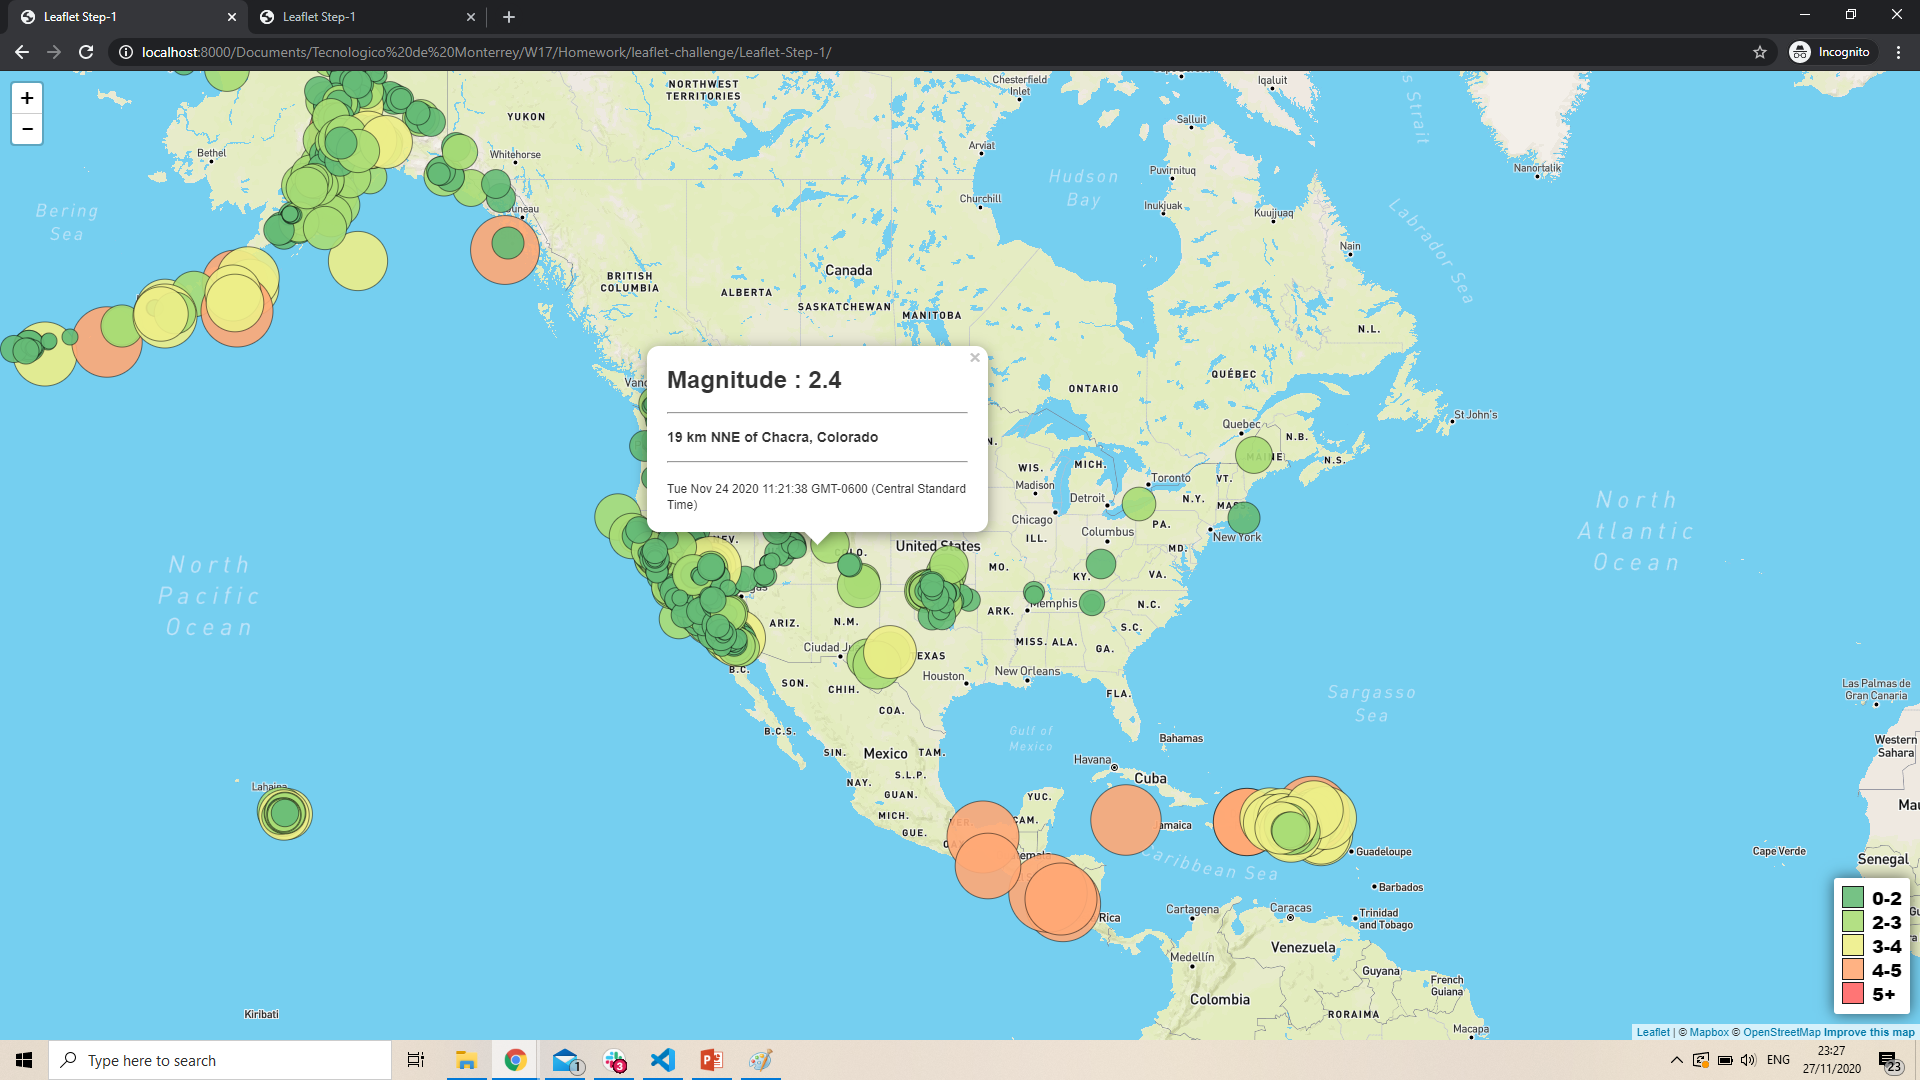
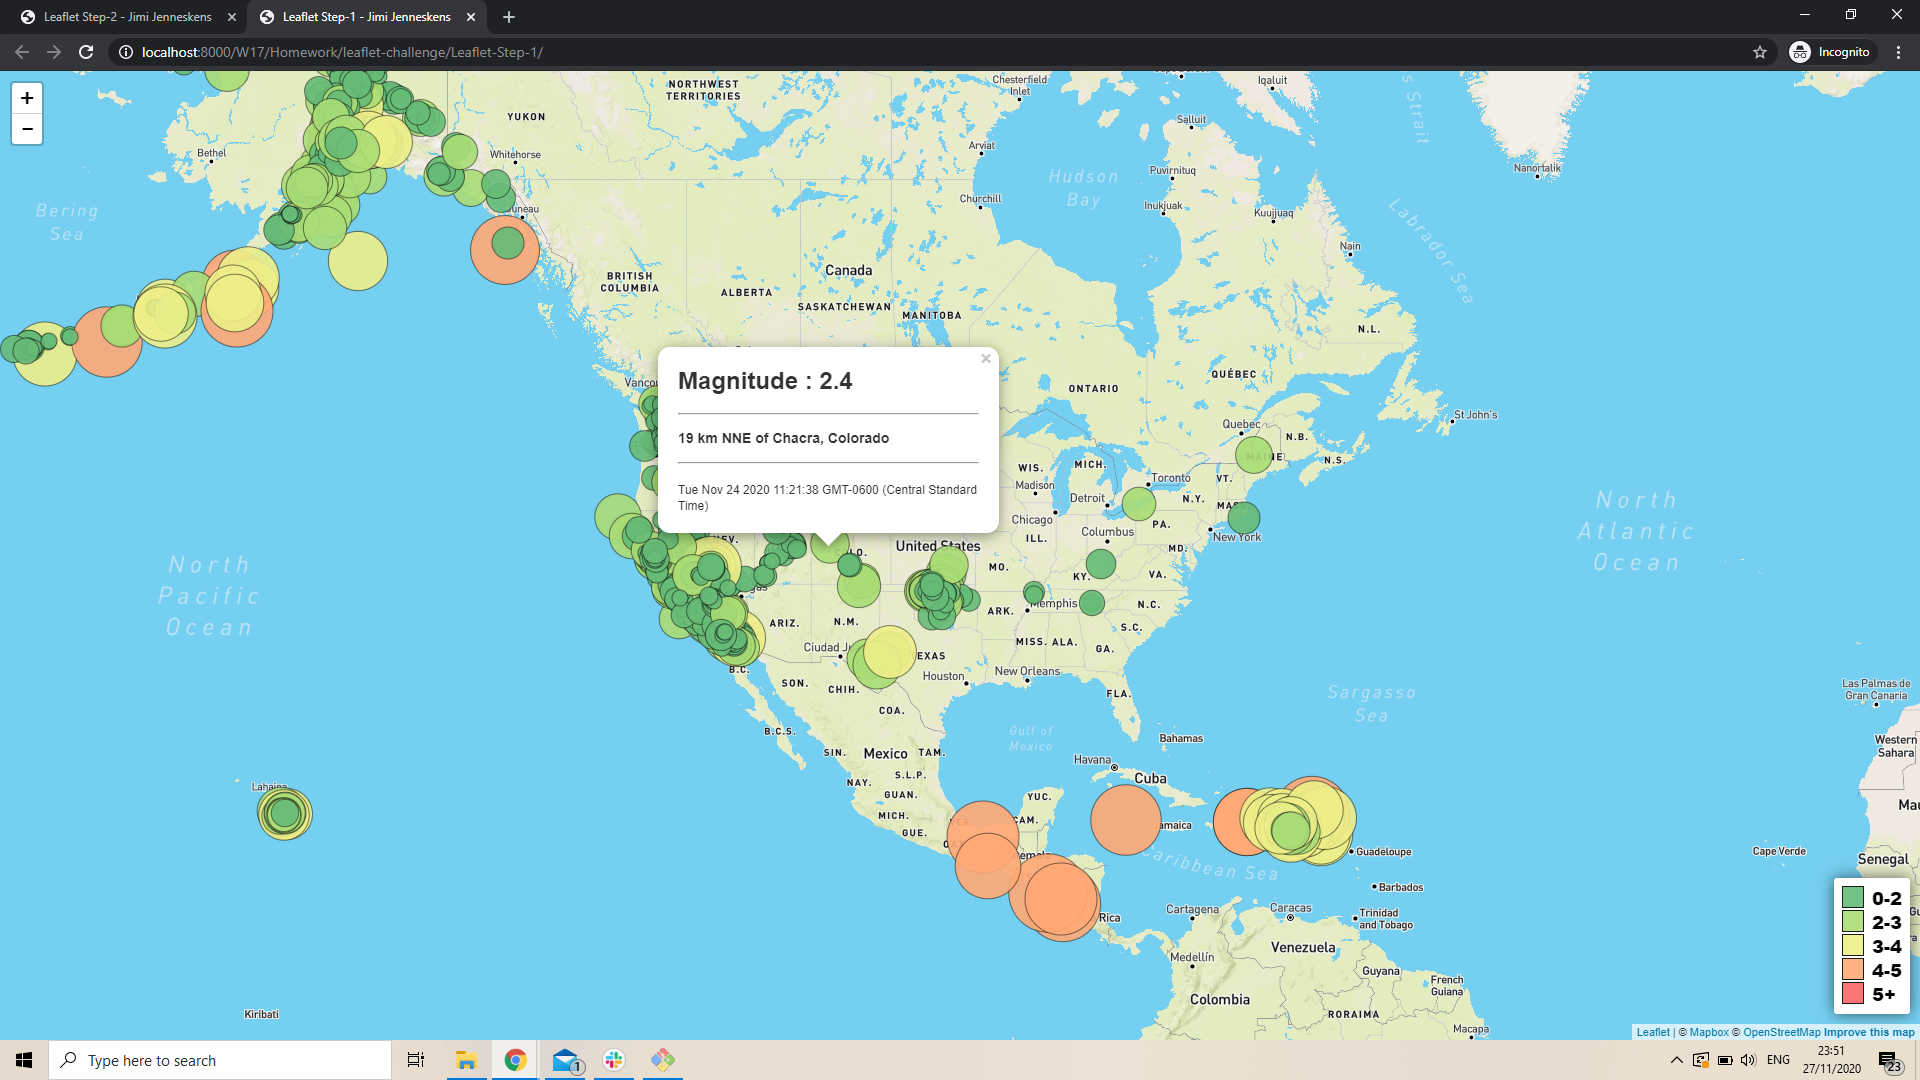
finished

diff --git a/Leaflet-Step-1/index.html b/Leaflet-Step-1/index.html
@@ -4,7 +4,7 @@
   <meta charset="UTF-8">
   <meta name="viewport" content="width=device-width, initial-scale=1.0">
   <meta http-equiv="X-UA-Compatible" content="ie=edge">
-  <title>Leaflet Step-1</title>
+  <title>Leaflet Step-1 - Jimi Jenneskens</title>
 
   <!-- Leaflet CSS -->
   <link rel="stylesheet" href="https://unpkg.com/leaflet@1.0.0-rc.3/dist/leaflet.css" />

diff --git a/Leaflet-Step-2/index.html b/Leaflet-Step-2/index.html
@@ -4,7 +4,7 @@
   <meta charset="UTF-8">
   <meta name="viewport" content="width=device-width, initial-scale=1.0">
   <meta http-equiv="X-UA-Compatible" content="ie=edge">
-  <title>Leaflet Step-1</title>
+  <title>Leaflet Step-2 - Jimi Jenneskens</title>
 
   <!-- Leaflet CSS -->
   <link rel="stylesheet" href="https://unpkg.com/leaflet@1.0.0-rc.3/dist/leaflet.css" />
